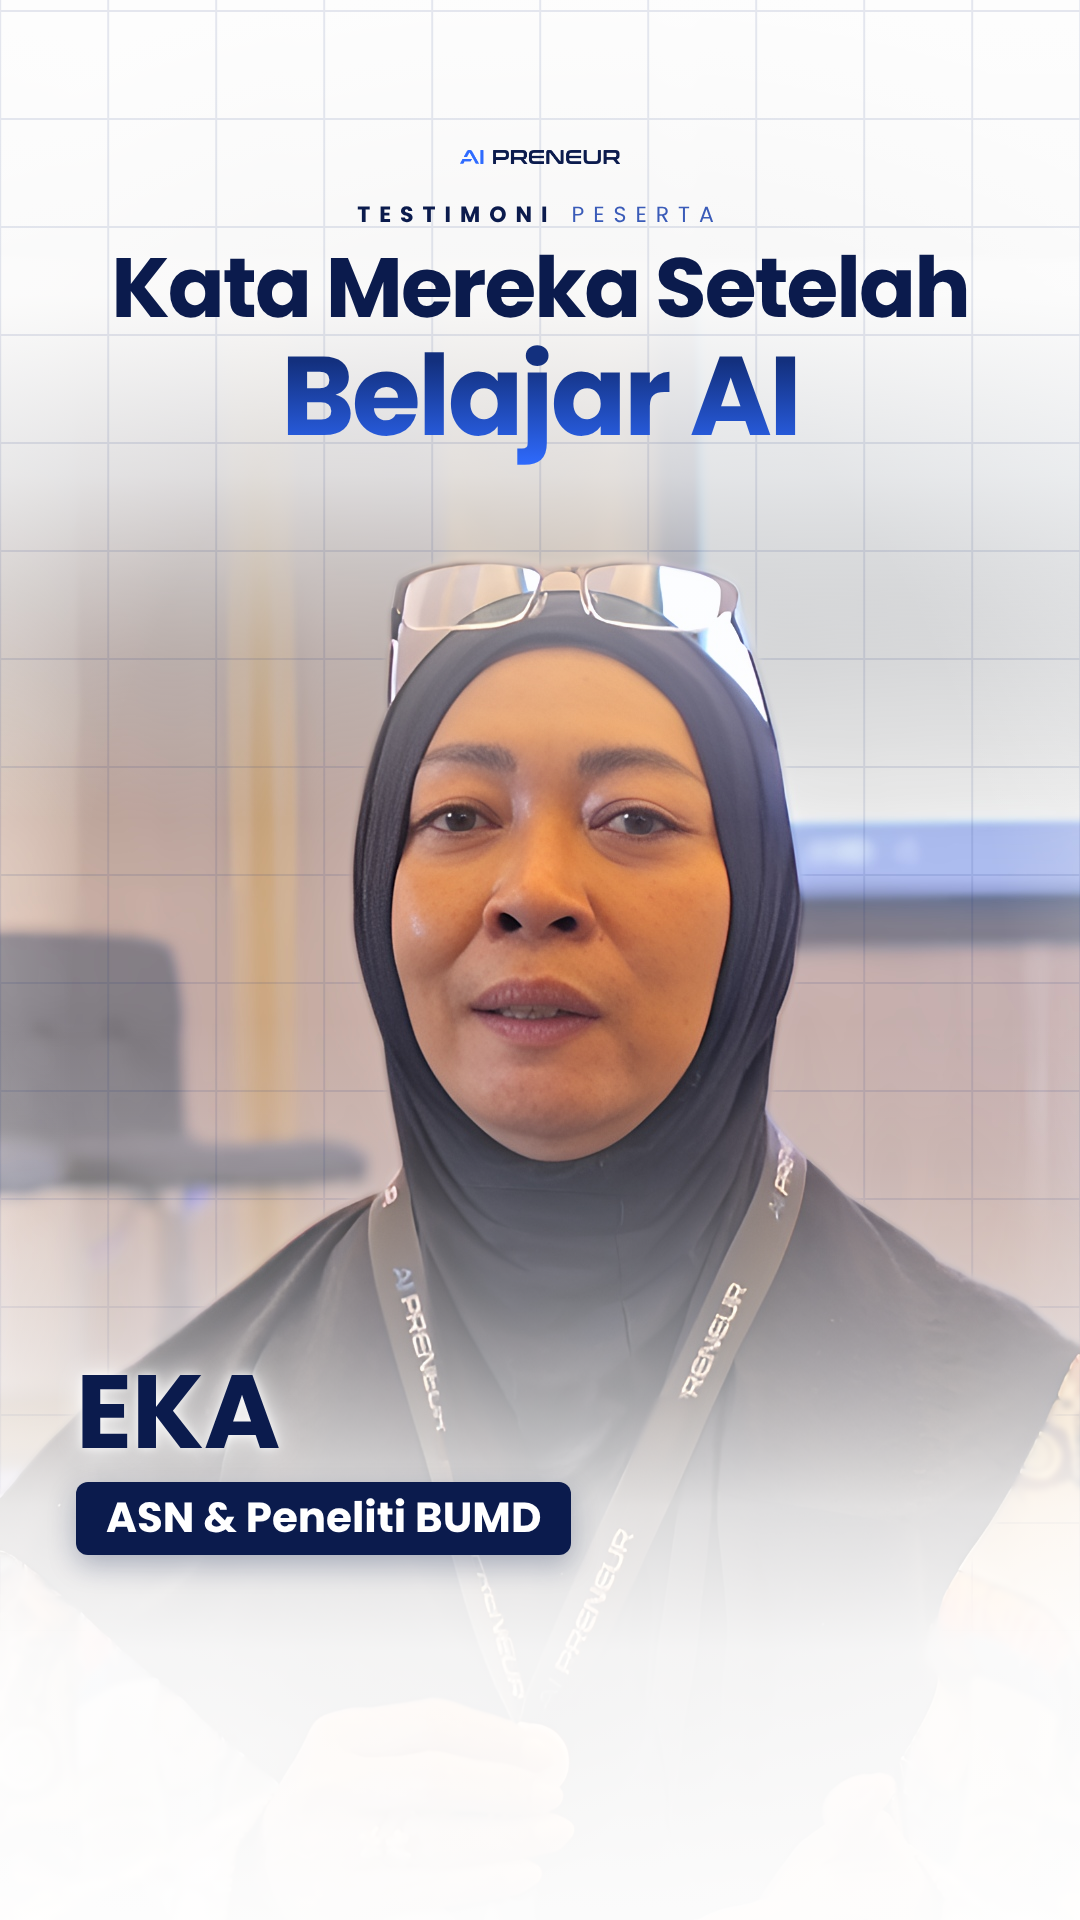
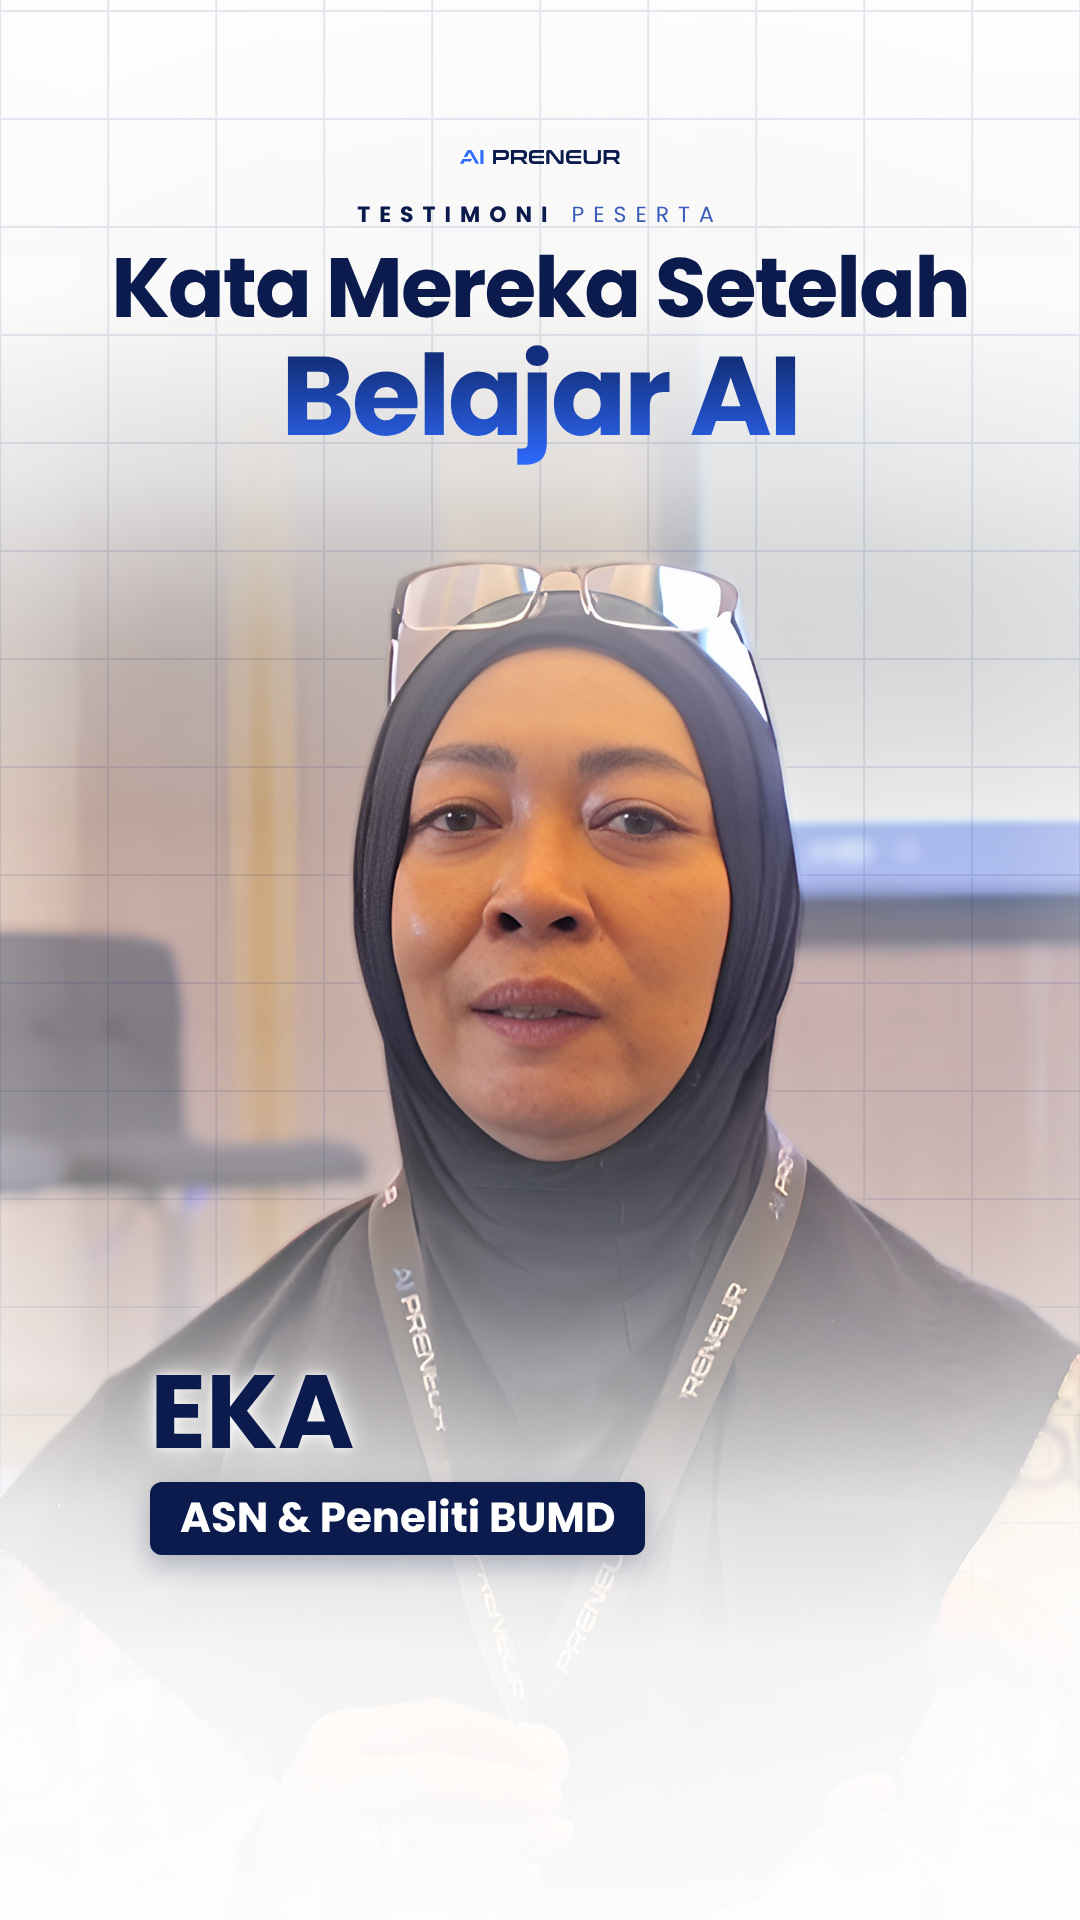
Testimonial cover: name tag shifted right for IG
Claude-Session: https://claude.ai/code/session_01FYKeHQKRYJvqWR6SYDVSQw

Changed region(s): [[0.0611, 0.6875, 0.6111, 0.8438]]

diff --git a/projects/testi_thumb/thumbnail/cover.html b/projects/testi_thumb/thumbnail/cover.html
@@ -33,7 +33,7 @@
     background: linear-gradient(180deg, #13307e 15%, #2f6bff 90%); -webkit-background-clip: text; background-clip: text; color: transparent;
     padding-bottom: .26em; }
   /* name tag (lower third), same layout as the client's earlier testimonial covers, in navy for the white theme */
-  #who { position: absolute; left: 76px; top: 1360px; }
+  #who { position: absolute; left: 150px; top: 1360px; }
   #who .nm { font: 700 104px/1 Poppins; letter-spacing: -.5px; color: #0b1b4d; text-shadow: 0 0 28px rgba(255,255,255,.95), 0 0 10px rgba(255,255,255,.8); text-transform: uppercase; white-space: nowrap; }
   #who .rl { display: inline-block; margin-top: 18px; padding: 15px 30px 16px; border-radius: 12px; background: #0b1b4d;
     font: 700 42px/1 Poppins; color: #ffffff; white-space: nowrap; box-shadow: 0 10px 28px rgba(11,27,77,.28); }
